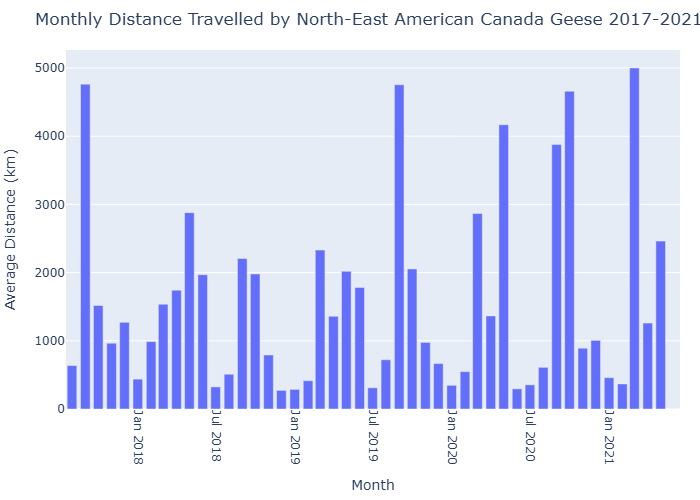
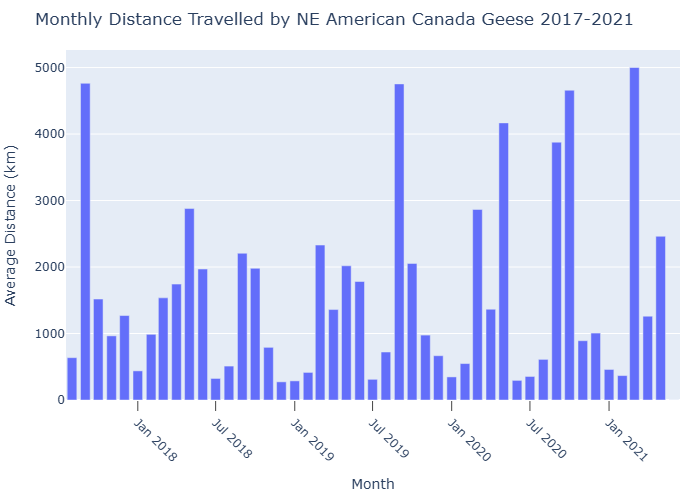
edited most_movement image

diff --git a/most_movement.py b/most_movement.py
@@ -41,6 +41,6 @@ avg_goose_dist = monthly_goose_dist.groupby("month")["total_month_dist"].mean().
 avg_goose_dist = avg_goose_dist.sort_values("month")
 avg_goose_dist["month_formatted"] = avg_goose_dist["month"].dt.strftime("%Y-%m")
 fig = px.bar(avg_goose_dist, x='month_formatted', y='avg_month_dist', labels={"month_formatted":"Month", "avg_month_dist":"Average Distance (km)"})
-fig.update_layout(margin={"r": 20, "t": 50, "l": 20, "b": 10}, title="Monthly Distance Travelled by North-East American Canada Geese 2017-2021", )
-fig.update_xaxes(tickangle = 90)
+fig.update_layout(margin={"r": 20, "t": 50, "l": 20, "b": 10}, title="Monthly Distance Travelled by NE American Canada Geese 2017-2021", )
+fig.update_xaxes(ticks='outside', ticklen=10, ticklabelindex=-1, tickangle=45)
 fig.write_image("results\\movement_per_month.png") 
